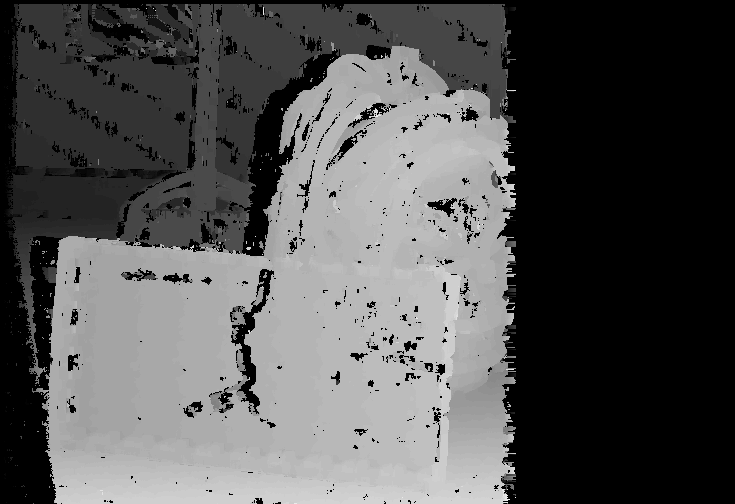
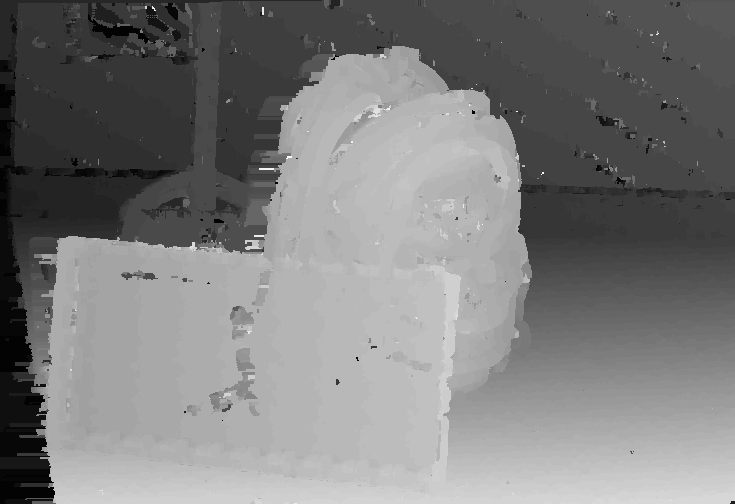
Phase 5 working

diff --git a/phase_5/main.c b/phase_5/main.c
@@ -4,10 +4,13 @@
 
 #include <CL/cl.h>
 
+#include <omp.h>
+
 #include "device_support.h"
 #include "image_operations.h"
 #include "profiling.h"
 #include "types.h"
+#include "zncc_operations.h"
 
 #define IMAGE_PATH_LEFT "./test_images/im0.png"
 #define IMAGE_PATH_RIGHT "./test_images/im1.png"
@@ -36,6 +39,8 @@
 
 #define err_check(e) check_cl_error_with_file_line(__FILE__, __LINE__, e)
 
+#define OUTPUT_INTERMEDIATE_IMAGES 1
+
 void enqueue_downscaling_work(
     cl_command_queue queue,
     cl_kernel        kernel,
@@ -60,9 +65,6 @@ void enqueue_zncc_work(
     cl_command_queue queue,
     cl_kernel        kernel,
     const uint32_t   N,
-    const uint32_t   M,
-    const uint32_t   W,
-    const uint32_t   H,
     const int32_t    direction,
     const uint32_t   max_disparity,
     cl_mem           img_left,
@@ -98,12 +100,13 @@ void enqueue_zero_fill_work(
 
 int main() {
     PROFILING_BLOCK_DECLARE(total_runtime);
+    PROFILING_BLOCK_DECLARE(opencl_runtime_setup);
     PROFILING_BLOCK_DECLARE(preprocessing);
     PROFILING_BLOCK_DECLARE(zncc_calculation);
     PROFILING_BLOCK_DECLARE(postprocessing);
 
     PROFILING_BLOCK_BEGIN(total_runtime);
-    PROFILING_BLOCK_BEGIN(preprocessing);
+    PROFILING_BLOCK_BEGIN(opencl_runtime_setup);
 
     // setup OpenCL environment
     cl_int           err           = CL_SUCCESS;
@@ -159,6 +162,9 @@ int main() {
     err_check(err);
 
     print_device_info(dev);
+
+    PROFILING_BLOCK_END(opencl_runtime_setup);
+    PROFILING_BLOCK_BEGIN(preprocessing);
 
     // load images
     printf("loading input images into memory...\n");
@@ -265,6 +271,7 @@ int main() {
     err = clFinish(queue);
     err_check(err);
 
+#if OUTPUT_INTERMEDIATE_IMAGES == 1
     // output intermediate images
     rgba_img_t ds_l = {.img = NULL, .width = W_ds, .height = H_ds};
     rgba_img_t ds_r = {.img = NULL, .width = W_ds, .height = H_ds};
@@ -281,6 +288,10 @@ int main() {
 
     output_image("./output_images/tmp_ds_l.png", &ds_l, RGBA, NULL);
     output_image("./output_images/tmp_ds_r.png", &ds_r, RGBA, NULL);
+
+    free(ds_l.img);
+    free(ds_r.img);
+#endif
 
     // execute grayscaling work for left and right images
     printf("grayscaling input images...\n");
@@ -320,26 +331,31 @@ int main() {
 
     PROFILING_BLOCK_END(preprocessing);
 
+#if OUTPUT_INTERMEDIATE_IMAGES == 1
     // output intermediate images to check them
-    float_img_t gs_left = {
+    float_img_t gs_l = {
         .img = NULL, .max = 255.0f, .width = W_ds, .height = H_ds
     };
-    float_img_t gs_right = {
+    float_img_t gs_r = {
         .img = NULL, .max = 255.0f, .width = W_ds, .height = H_ds
     };
 
-    gs_left.img = read_device_image(
+    gs_l.img = read_device_image(
         queue, dev_image_gs_left, W_ds, H_ds, sizeof(float), &err
     );
     err_check(err);
 
-    gs_right.img = read_device_image(
+    gs_r.img = read_device_image(
         queue, dev_image_gs_right, W_ds, H_ds, sizeof(float), &err
     );
     err_check(err);
 
-    output_image("./output_images/tmp_gs_l.png", &gs_left, GS_FLOAT, NULL);
-    output_image("./output_images/tmp_gs_r.png", &gs_right, GS_FLOAT, NULL);
+    output_image("./output_images/tmp_gs_l.png", &gs_l, GS_FLOAT, NULL);
+    output_image("./output_images/tmp_gs_r.png", &gs_r, GS_FLOAT, NULL);
+
+    free(gs_l.img);
+    free(gs_r.img);
+#endif
 
     // do ZNCC calculations
     PROFILING_BLOCK_BEGIN(zncc_calculation);
@@ -368,16 +384,10 @@ int main() {
     );
     err_check(err);
 
-#define ZNCC_W_SEGMENTS 1
-#define ZNCC_H_SEGMENTS NUM_ROWS
-
     enqueue_zncc_work(
         queue,
         zncc_k,
-        ZNCC_H_SEGMENTS,
-        ZNCC_W_SEGMENTS,
-        W_ds,
-        H_ds,
+        NUM_ROWS,
         1,
         MAX_DISP,
         dev_image_gs_left,
@@ -391,10 +401,7 @@ int main() {
     enqueue_zncc_work(
         queue,
         zncc_k,
-        ZNCC_H_SEGMENTS,
-        ZNCC_W_SEGMENTS,
-        W_ds,
-        H_ds,
+        NUM_ROWS,
         -1,
         MAX_DISP,
         dev_image_gs_left,
@@ -448,23 +455,20 @@ int main() {
     err = clFinish(queue);
     err_check(err);
 
-    enqueue_zero_fill_work(
-        queue,
-        zero_fill_k,
-        1,
-        W_ds,
-        H_ds,
-        dev_combined_image,
-        &prof_evt_zero_fill,
-        &err
-    );
-    err_check(err);
+    // enqueue_zero_fill_work(
+    //     queue,
+    //     zero_fill_k,
+    //     1,
+    //     W_ds,
+    //     H_ds,
+    //     dev_combined_image,
+    //     &prof_evt_zero_fill,
+    //     &err
+    // );
+    // err_check(err);
 
-    err = clFinish(queue);
-    err_check(err);
-
-    PROFILING_BLOCK_END(postprocessing);
-    PROFILING_BLOCK_END(total_runtime);
+    // err = clFinish(queue);
+    // err_check(err);
 
     int32_img_t depthmap = {
         .img = NULL, .max = MAX_DISP, .width = W_ds, .height = H_ds
@@ -473,6 +477,38 @@ int main() {
         queue, dev_combined_image, W_ds * H_ds * sizeof(int32_t), &err
     );
     err_check(err);
+
+    printf("filling empty regions (on host)...\n");
+
+#pragma omp parallel
+    {
+        int          num_threads = omp_get_num_threads();
+        int          thread_id   = omp_get_thread_num();
+        uint8_t     *visited     = malloc(W_ds * H_ds * sizeof(uint8_t));
+        coord_fifo_t fifo        = {
+                   .storage  = malloc(W_ds * H_ds * sizeof(coord_t)),
+                   .read     = 0,
+                   .write    = 0,
+                   .capacity = W_ds * H_ds
+        };
+
+        for (uint32_t y = thread_id; y < H_ds; y += num_threads) {
+            for (uint32_t x = 0; x < W_ds; ++x) {
+                int32_t curr = depthmap.img[(y * W_ds) + x];
+                if (curr == 0) {
+                    int32_t nnzn = find_nearest_nonzero_neighbour(
+                        depthmap.img, W_ds, H_ds, x, y, visited, &fifo
+                    );
+                    depthmap.img[(y * W_ds) + x] = nnzn;
+                }
+            }
+        }
+        free(fifo.storage);
+        free(visited);
+    }
+
+    PROFILING_BLOCK_END(postprocessing);
+    PROFILING_BLOCK_END(total_runtime);
 
     img_write_result_t r = {.err = 0};
     output_image(IMAGE_PATH_OUT, &depthmap, GS_INT32, &r);
@@ -504,6 +540,7 @@ int main() {
     PROFILING_RAW_PRINT_US("postprocessing", postprocess_ns);
 
     printf("\nhost program profiling blocks:\n");
+    PROFILING_BLOCK_PRINT_MS(opencl_runtime_setup);
     PROFILING_BLOCK_PRINT_MS(preprocessing);
     PROFILING_BLOCK_PRINT_S(zncc_calculation);
     PROFILING_BLOCK_PRINT_MS(postprocessing);
@@ -586,9 +623,6 @@ void enqueue_zncc_work(
     cl_command_queue queue,
     cl_kernel        kernel,
     const uint32_t   N,
-    const uint32_t   M,
-    const uint32_t   W_i,
-    const uint32_t   H_i,
     const int32_t    direction,
     const uint32_t   max_disparity,
     cl_mem           img_left,
@@ -603,19 +637,16 @@ void enqueue_zncc_work(
     }
 
     SET_KERNEL_ARG(0, uint32_t, &N);
-    SET_KERNEL_ARG(1, uint32_t, &M);
-    SET_KERNEL_ARG(2, uint32_t, &W_i);
-    SET_KERNEL_ARG(3, uint32_t, &H_i);
-    SET_KERNEL_ARG(4, int32_t, &direction);
-    SET_KERNEL_ARG(5, uint32_t, &max_disparity);
-    SET_KERNEL_ARG(6, cl_mem, &img_left);
-    SET_KERNEL_ARG(7, cl_mem, &img_right);
-    SET_KERNEL_ARG(8, cl_mem, &disp_img_out);
+    SET_KERNEL_ARG(1, int32_t, &direction);
+    SET_KERNEL_ARG(2, uint32_t, &max_disparity);
+    SET_KERNEL_ARG(3, cl_mem, &img_left);
+    SET_KERNEL_ARG(4, cl_mem, &img_right);
+    SET_KERNEL_ARG(5, cl_mem, &disp_img_out);
 
-    const size_t global_ids[2] = {N, M};
+    const size_t global_id = N;
 
     internal_err = clEnqueueNDRangeKernel(
-        queue, kernel, 2, NULL, global_ids, NULL, 0, NULL, profiling_evt
+        queue, kernel, 1, NULL, &global_id, NULL, 0, NULL, profiling_evt
     );
     if (internal_err != CL_SUCCESS) {
         *err = internal_err;

diff --git a/src/device_support.c b/src/device_support.c
@@ -68,7 +68,9 @@ cl_program compile_program_from_file(
 
     internal_err = clBuildProgram(program, 1, &dev, "-Werror", NULL, NULL);
     if (internal_err != CL_SUCCESS) {
-        print_build_log(program, dev);
+        if (internal_err == CL_BUILD_PROGRAM_FAILURE) {
+            print_build_log(program, dev);
+        }
         *err = internal_err;
         return NULL;
     }
@@ -77,8 +79,8 @@ cl_program compile_program_from_file(
     return program;
 }
 
-// 16 kB buffer should be plenty, right?
-#define BUILD_LOG_SIZE (16 * 1024)
+// 64 kB buffer should be plenty, right?
+#define BUILD_LOG_SIZE (64 * 1024)
 
 void print_build_log(cl_program program, cl_device_id dev) {
     static char build_log[BUILD_LOG_SIZE];
@@ -96,8 +98,12 @@ void print_build_log(cl_program program, cl_device_id dev) {
 
     printf("OpenCL program build log: \n%s\n", (const char *)build_log);
 
-    if (build_log_len == BUILD_LOG_SIZE - 1) {
-        printf("WARNING: build log may have been truncated...");
+    if (build_log_len >= BUILD_LOG_SIZE - 1) {
+        printf(
+            "WARNING: build log may have been truncated... (reported length: "
+            "%zu)\n",
+            build_log_len
+        );
     }
 }
 
